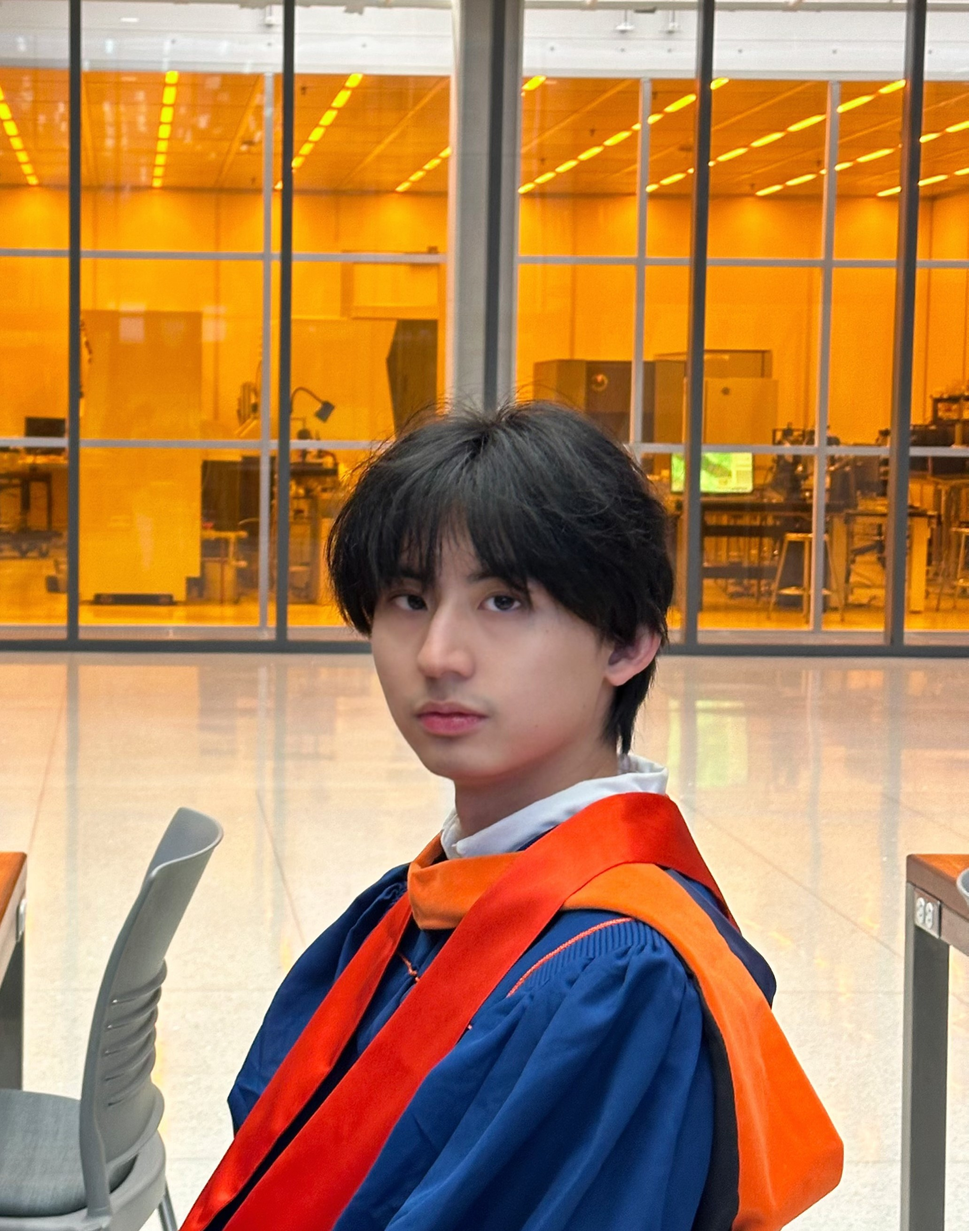
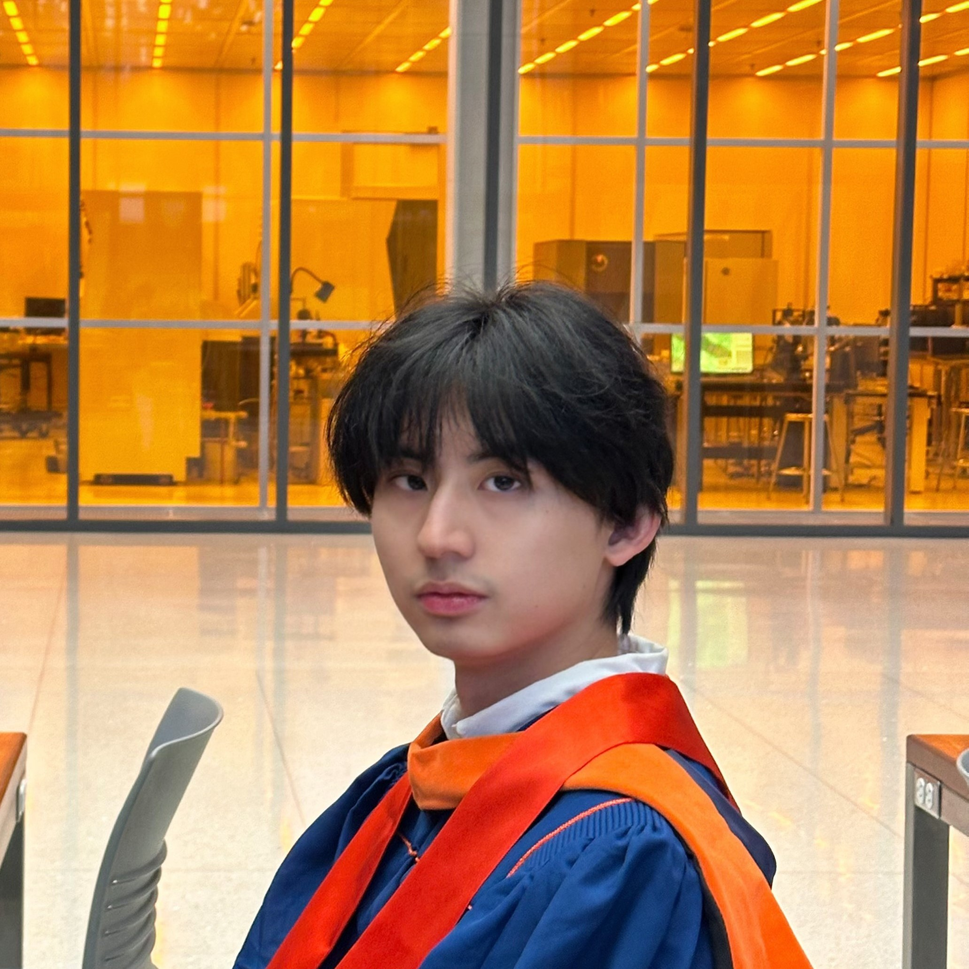
fix img

diff --git a/_site/index.html b/_site/index.html
@@ -164,7 +164,7 @@ ul.task-list li input[type="checkbox"] {
 
 <section id="welcome" class="level1">
 <h1>Welcome!</h1>
-<p><img src="images/profile.jpg" alt="My Profile Picture" class="circular-img"></p>
+<p><img src="images/profile.jpg" class="img-fluid" style="border-radius: 50%;" width="200"></p>
 <p>Hello! I’m Jinxiong You, and you might know me as Eugene.</p>
 <section id="work-experience" class="level2">
 <h2 class="anchored" data-anchor-id="work-experience">Work Experience</h2>
@@ -332,7 +332,7 @@ window.document.addEventListener("DOMContentLoaded", function (event) {
   }
     var localhostRegex = new RegExp(/^(?:http|https):\/\/localhost\:?[0-9]*\//);
     var mailtoRegex = new RegExp(/^mailto:/);
-      var filterRegex = new RegExp("https:\/\/jinxyou\.github\.io\/");
+      var filterRegex = new RegExp('/' + window.location.host + '/');
     var isInternal = (href) => {
         return filterRegex.test(href) || localhostRegex.test(href) || mailtoRegex.test(href);
     }
